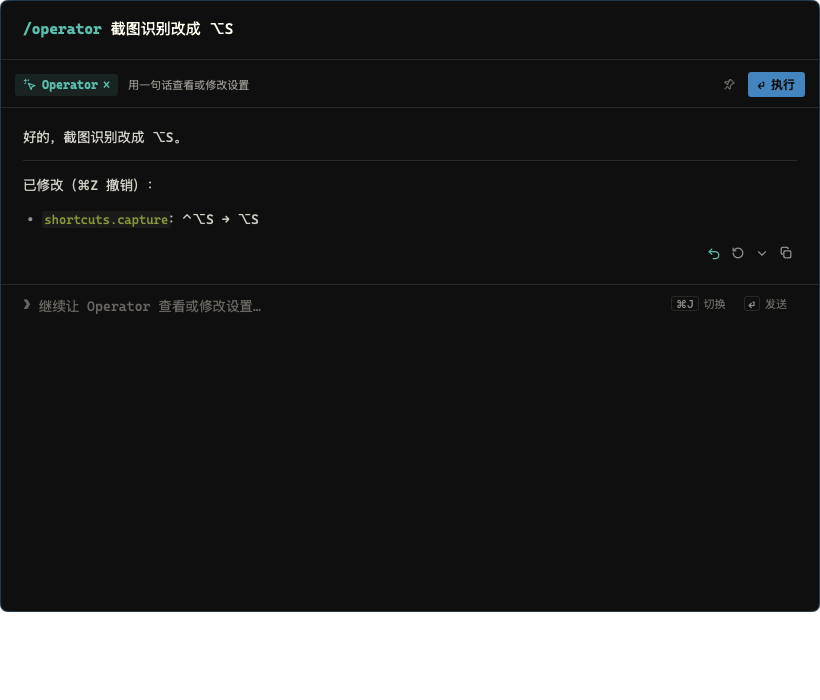
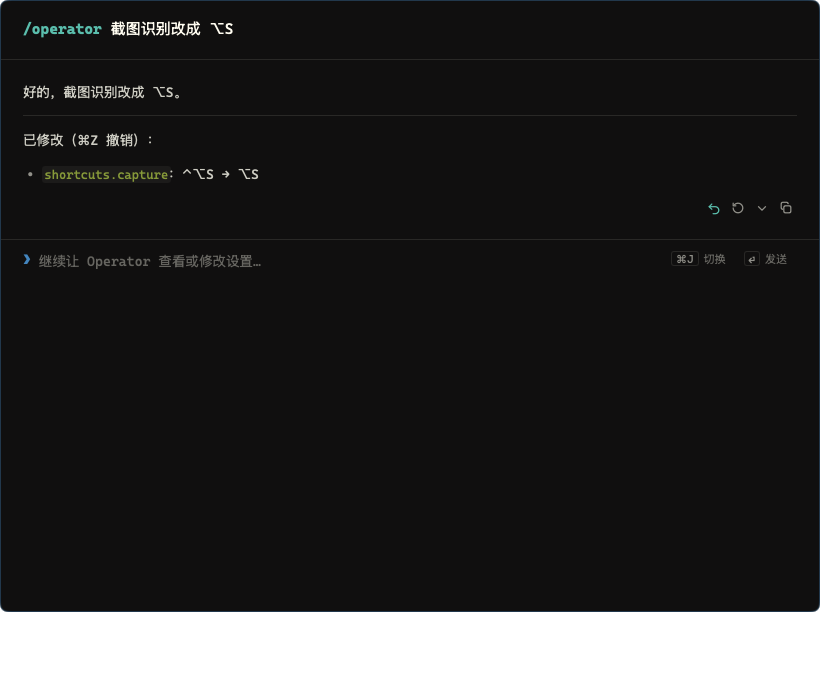
fix: quieter operator session, keyboard where the user types next
Once an operator request is sent, the source line already names the mode
and the follow-up line carries the conversation, so the mode bar only
repeated them: it now hides for the session and the follow-up row takes
over dragging the panel. The keyboard moves to the follow-up, where ⌘Z
undoes the edit, including when the panel opens again. ⌘J back to the
source puts the caret after its text instead of where it was before a
topic filled in the question.

diff --git a/internal/panel/view.go b/internal/panel/view.go
@@ -93,14 +93,22 @@ func (p *Panel) view(c *ui.Context) {
 			p.sourceView(c, pal)
 			p.menuView(c, pal)
 			p.splitter(c, pal)
-			p.modeBar(c, pal)
+			// Once an operator request is under way, the source says the
+			// mode and the follow-up line goes on; the bar would only
+			// repeat them.
+			bar := !p.operatorSession()
+			if bar {
+				p.modeBar(c, pal)
+			}
 			if p.notice != "" {
 				ui.Divider(c).Background(pal.Border)
 				ui.Text(c, p.notice).FontSize(p.sz.Label).TextColor(pal.Muted).
 					PaddingX(design.SpaceX).PaddingY(12)
 			}
 			if p.sess != nil {
-				ui.Divider(c).Background(pal.Border)
+				if bar {
+					ui.Divider(c).Background(pal.Border)
+				}
 				p.resultView(c, pal)
 				ui.Divider(c).Background(pal.Border)
 				p.followView(c, pal)
@@ -176,13 +184,14 @@ func (p *Panel) sourceView(c *ui.Context, pal *design.Palette) {
 }
 
 // switchInput moves the keyboard between the source and the follow-up
-// (Cmd-J).
+// (Cmd-J), into the source after its text.
 func (p *Panel) switchInput(c *ui.Context) {
 	if p.sess != nil && !p.followIn.Focused(c) {
 		p.followIn.Focus()
 		return
 	}
 	p.sourceIn.Focus()
+	p.caretToEnd = true
 }
 
 // translateTarget is where translation goes for the source as typed: into
@@ -369,11 +378,17 @@ func (p *Panel) themeButton(c *ui.Context, pal *design.Palette) {
 	}
 }
 
+// runButton runs the source; in operator mode it takes the pill's colors,
+// so the bar has one tint.
 func (p *Panel) runButton(c *ui.Context, pal *design.Palette) {
-	run := ui.Row(c.Key("run")).Gap(6).PaddingX(10).PaddingY(4).Radius(design.RadiusChip).Background(pal.Accent)
+	fill, text := pal.Accent, pal.AccentText
+	if p.operatorActive() && !p.noteMode() {
+		fill, text = pal.OperatorFill, pal.Operator
+	}
+	run := ui.Row(c.Key("run")).Gap(6).PaddingX(10).PaddingY(4).Radius(design.RadiusChip).Background(fill)
 	run.Children(func() {
-		ui.Text(c, "⏎").FontSize(p.sz.Label).TextColor(pal.AccentText)
-		ui.Text(c, "执行").FontSize(p.sz.Label).FontWeight(700).TextColor(pal.AccentText)
+		ui.Text(c, "⏎").FontSize(p.sz.Label).TextColor(text)
+		ui.Text(c, "执行").FontSize(p.sz.Label).FontWeight(700).TextColor(text)
 	})
 	if run.Clicked() {
 		p.run()
@@ -579,8 +594,10 @@ func failureText(err error) (title, next string) {
 	return "请求没有完成。", "重试 ⏎"
 }
 
+// followView is the follow-up line. Around its input it moves the window,
+// as the mode bar does, which an operator session hides.
 func (p *Panel) followView(c *ui.Context, pal *design.Palette) {
-	ui.Row(c).Shrink(0).PaddingX(design.SpaceX).PaddingY(11).Gap(8).AlignItems(ui.Start).Children(func() {
+	ui.Row(c).Shrink(0).PaddingX(design.SpaceX).PaddingY(11).Gap(8).AlignItems(ui.Start).DragWindow().Children(func() {
 		prompt := pal.Faint
 		if p.followIn.Focused(c) {
 			prompt = pal.Accent

diff --git a/internal/panel/operator.go b/internal/panel/operator.go
@@ -50,6 +50,9 @@ func (p *Panel) runOperator(request string) {
 	m.Model = p.cfg.DefaultModel
 	p.sess = session.New(m, request, m.Model)
 	p.sess.Operator = true
+	// The request is sent; what comes next is a follow-up, and ⌘Z there
+	// undoes the edit.
+	p.followIn.Focus()
 	_, hasModel := p.cfg.Model(m.Model)
 	if request == "" || !hasModel || p.deps.Operator.State == nil {
 		p.answerLocally(p.sess.Last())
@@ -135,6 +138,12 @@ func quoteLines(s string) string {
 
 var operatorIcon = ui.MustParseSVG([]byte(`<svg xmlns="http://www.w3.org/2000/svg" viewBox="0 0 16 16" fill="none" stroke="currentColor" stroke-width="1.3" stroke-linecap="round" stroke-linejoin="round"><path d="M6.2 6.2l7.3 2.6-3.1 1.1-1.1 3.1z"/><path d="M3 1.5v2M1.5 3h2M6.5 2.2l-.8.8M2.2 6.5l.8-.8"/></svg>`))
 
+// operatorSession reports whether the result shows an operator session the
+// source still asks for.
+func (p *Panel) operatorSession() bool {
+	return p.sess != nil && p.sess.Operator && p.operatorActive() && !p.noteMode()
+}
+
 // operatorPill takes the place of the mode tabs while the source asks for
 // operator mode; its × leaves the mode.
 func (p *Panel) operatorPill(c *ui.Context, pal *design.Palette) {
@@ -152,7 +161,6 @@ func (p *Panel) operatorPill(c *ui.Context, pal *design.Palette) {
 			p.sourceIn.Focus()
 		}
 	})
-	ui.Text(c, "用一句话查看或修改设置").FontSize(p.sz.Caption).TextColor(pal.Muted).MarginStart(8)
 }
 
 // sheen returns how far the sheen has crossed operator mode's name since the

diff --git a/internal/panel/operator_test.go b/internal/panel/operator_test.go
@@ -99,10 +99,23 @@ func TestOperatorAppliesPlanAndUndoes(t *testing.T) {
 	if strings.Contains(turn.Reply, "kami-operator") || !strings.Contains(turn.Reply, "已修改") || !turn.Undoable {
 		t.Errorf("reply %q, undoable %v", turn.Reply, turn.Undoable)
 	}
+	if oh.tt.HasText("执行") {
+		t.Error("the mode bar still shows during the operator session")
+	}
+	if !oh.tt.Focused("追问") {
+		t.Error("the keyboard stayed in the source after the operator request")
+	}
 	oh.tt.Advance(time.Second)
 	oh.snapshotNow("operator-sparkles")
 	oh.tt.Advance(3 * time.Second) // past the sparkles
 	oh.snapshot("operator-changed")
+	oh.p.source = "截图识别改成 ⌥S" // leaving operator mode brings the bar back
+	oh.tt.Frame()
+	if !oh.tt.HasText("执行") {
+		t.Error("no mode bar after leaving operator mode")
+	}
+	oh.p.source = "/operator 截图识别改成 ⌥S"
+	oh.tt.Frame()
 
 	oh.tt.Click("追问")
 	oh.tt.Key(ui.Cmd, ui.KeyZ)

diff --git a/internal/panel/panel_test.go b/internal/panel/panel_test.go
@@ -463,6 +463,25 @@ func TestSwitchInputAndCaret(t *testing.T) {
 	if h.p.source != "/operator 主题" {
 		t.Errorf("typing after picking /operator gave %q; the caret was not at the end", h.p.source)
 	}
+
+	// A topic sends its question, and the keyboard goes to the follow-up;
+	// ⌘J goes back to the source after its text.
+	h.p.source = "/operator "
+	h.p.caretToEnd = true
+	h.tt.Frame()
+	h.tt.Key(0, ui.KeyDown)
+	h.tt.Key(0, ui.KeyEnter)
+	h.drain()
+	h.tt.Frame()
+	if !h.tt.Focused("追问") {
+		t.Fatalf("the topic left the keyboard in the source: %q", h.p.source)
+	}
+	h.tt.Key(ui.Cmd, ui.KeyJ)
+	h.tt.Frame()
+	h.tt.Type("！")
+	if !strings.HasSuffix(h.p.source, "颜色的值。！") {
+		t.Errorf("typing after ⌘J gave %q; the caret was not at the end", h.p.source)
+	}
 }
 
 func TestTranslateLabel(t *testing.T) {

diff --git a/internal/panel/panel.go b/internal/panel/panel.go
@@ -279,9 +279,12 @@ func (p *Panel) Show() {
 	p.requested = p.place.bounds(p.height).Height
 	p.win.SetBounds(p.place.bounds(p.height))
 	p.win.Show()
-	if p.noteMode() {
+	switch {
+	case p.noteMode():
 		p.notes.focusNote = true
-	} else {
+	case p.operatorSession():
+		p.followIn.Focus()
+	default:
 		p.sourceIn.Focus()
 	}
 	p.deps.Log.Info("panel show", "work", d.WorkArea, "want", p.place.bounds(p.height),

diff --git a/internal/panel/slash.go b/internal/panel/slash.go
@@ -118,6 +118,7 @@ func (p *Panel) topicItems(query string) []item {
 			}
 			set(operator.Command + " " + t.ask)
 			p.source = operator.Command + " " + t.ask
+			p.caretToEnd = true
 			p.run()
 		}})
 	}

diff --git a/docs/requirements.md b/docs/requirements.md
@@ -75,7 +75,7 @@
 | F4.1 | 任何模式的结果之后都能追问；追问的内容作为指令，带着此前的全部轮次发给模型 | P0 |
 | F4.2 | 问答模式以对话开始：原文栏就是第一句提问 | P0 |
 | F4.3 | 对话流里每一轮可以单独复制；最后一轮可以重新生成 | P0 |
-| F4.8 | ⌘J 在原文和追问之间切换焦点 | P0 |
+| F4.8 | ⌘J 在原文和追问之间切换焦点；回到原文时光标在文字末尾 | P0 |
 | F4.4 | ⌘N 开始新会话，清空原文和对话；带入新选区或截图也开始新会话 | P0 |
 | F4.5 | 会话只在内存里，只保留当前一个，应用退出即消失；不写任何会话记录 | P0 |
 | F4.6 | 上下文超过模型窗口时，保留第一轮和最近几轮，丢弃中间轮次，并在对话流里标出 | P1 |
@@ -132,7 +132,7 @@
 
 | ID | 需求 | 级别 |
 | --- | --- | --- |
-| F9.1 | 原文以 `/operator` 开头即进入 Operator：命令变色并扫过一道光，模式标签换成「Operator ×」；× 或删掉命令即退出；同一会话的追问都留在 Operator | P0 |
+| F9.1 | 原文以 `/operator` 开头即进入 Operator：命令变色并扫过一道光，模式标签换成「Operator ×」，执行按钮随之换成 Operator 的配色；发出请求后控制条隐藏，原文与追问行已经说明模式，追问行接替拖动面板，键盘也移到追问行（重新打开面板时同样）；× 或删掉命令即退出，控制条回来；同一会话的追问都留在 Operator | P0 |
 | F9.2 | 输入完整的 `/operator` 即显示子菜单，后接一个或多个空格、制表符也显示；继续输入时按主题过滤，不匹配的自然语言请求关闭菜单。裸命令直接按 ⏎ 显示本地帮助，不调用模型；Tab、点击或 ↑↓ 选择后按 ⏎ 执行菜单项，Esc 关闭菜单。帮助说明能做什么和示例；还没有模型时附上交给 Coding Agent 的配置提示词 | P0 |
 | F9.3 | 带一句话：交给默认模型，可以查看任何设置（快捷键、默认模型、各模式的模型与完整提示词、权限、版本），也可以修改 `config.json` 里除模型服务以外的一切；发送时结果区升起一阵星星 | P0 |
 | F9.4 | 修改直接生效：校验通过才写入，回复末尾列出改前 → 改后；在空的追问框按 ⌘Z 或点「撤销」恢复上一份配置；不合法时不写入并说明原因 | P0 |

diff --git a/docs/architecture.md b/docs/architecture.md
@@ -203,7 +203,7 @@ GlobalShortcut.Register("Alt+Space")（Carbon 热键）
 
 - 改动块是回复末尾的一个 ` ```kami-operator ` 代码块：`{"ops": [{"path", "value"}], "actions": [...]}`。路径同 Problem 的路径；`null` 删除。动作：`copy-agent-prompt`、`open-permission:<accessibility|input-monitoring|screen-recording>`。
 - 撤销只保留上一次修改前的文件；再改一次就以新的为准。
-- 视觉：命令着色与光扫（900ms）、模式条的「Operator ×」、发送时的星星（3.2s）都用 MyGo 的文本区间、元素和画笔完成，不引入新的窗口或组件；「减弱动态效果」时关闭。
+- 视觉：命令着色与光扫（900ms）、模式条的「Operator ×」（Operator 会话进行中隐藏模式条，追问行承担拖动）、发送时的星星（3.2s）都用 MyGo 的文本区间、元素和画笔完成，不引入新的窗口或组件；「减弱动态效果」时关闭。
 
 ## 十、笔记
 
